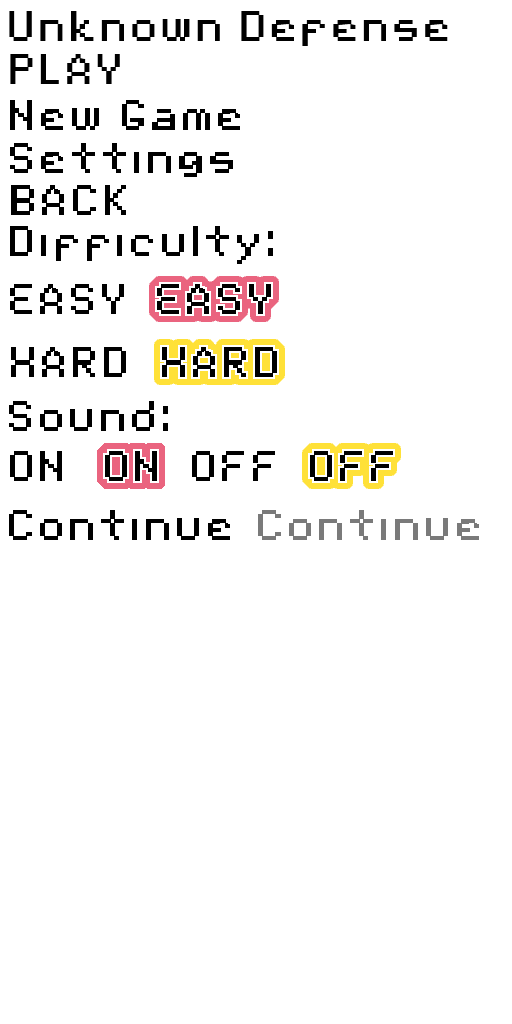
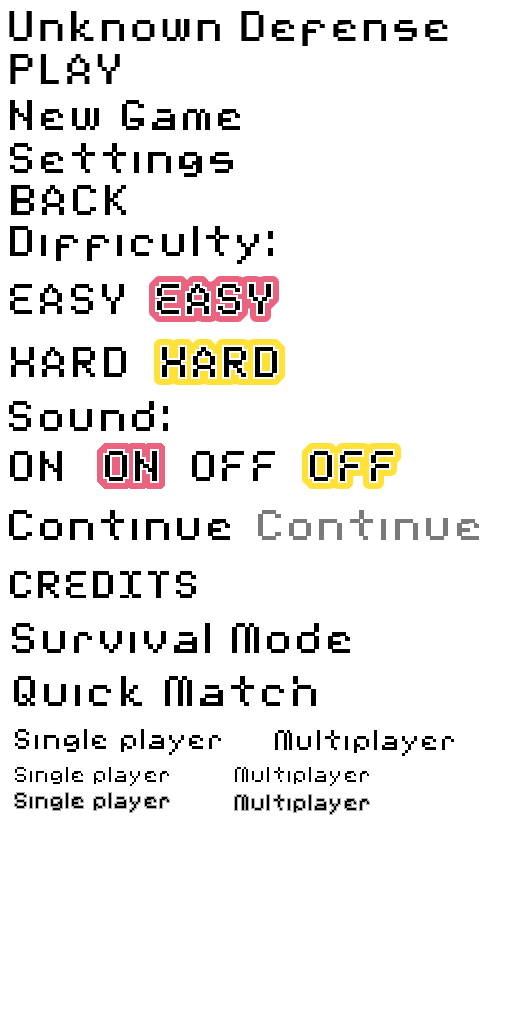
Added the game choice screen.

diff --git a/CS113Project/src/com/me/mygdxgame/GameChoiceScreen.java b/CS113Project/src/com/me/mygdxgame/GameChoiceScreen.java
@@ -1,0 +1,145 @@
+package com.me.mygdxgame;
+
+import com.badlogic.gdx.Gdx;
+import com.badlogic.gdx.Screen;
+import com.badlogic.gdx.graphics.GL10;
+import com.badlogic.gdx.graphics.OrthographicCamera;
+import com.badlogic.gdx.graphics.Texture;
+import com.badlogic.gdx.graphics.g2d.Sprite;
+import com.badlogic.gdx.graphics.g2d.SpriteBatch;
+import com.badlogic.gdx.graphics.g2d.TextureRegion;
+import com.badlogic.gdx.math.Rectangle;
+import com.badlogic.gdx.math.Vector3;
+
+public class GameChoiceScreen implements Screen{
+
+	private MyGdxGame game;
+	private SpriteBatch batch;
+	private OrthographicCamera camera;
+	private Vector3 touchPoint;
+	private Sprite titleSprite;
+	private Sprite survivalSprite;
+	private Sprite quickSprite;
+	private Rectangle survivalRectangle;
+	private Rectangle quickRectangle;
+	private Sprite sprite;
+	private Sprite backSprite;
+	private Rectangle backRectangle;
+	private Sprite singlePlayerSprite;
+	private Sprite multiPlayerSprite;
+
+	public GameChoiceScreen (MyGdxGame game)
+	{
+		this.game = game;
+		float w = 800; //Gdx.graphics.getWidth();
+		float h = 480; //Gdx.graphics.getHeight();
+		batch = new SpriteBatch();
+		camera = new OrthographicCamera(w, h);
+		touchPoint = new Vector3();
+		Texture textTexture = new Texture(Gdx.files.internal("images/textmenuscreen.png"));
+		Texture backgroundTexture = new Texture(Gdx.files.internal("images/mainmenubackground.png"));
+		
+		sprite = new Sprite(new TextureRegion(backgroundTexture, 0, 0, 800, 480));
+		titleSprite = new Sprite(new TextureRegion(textTexture, 0, 0, 451, 49));
+		titleSprite.setPosition((w - titleSprite.getWidth()) / 2, 370);
+
+		survivalSprite = new Sprite(new TextureRegion(textTexture, 10, 621, 342, 34));
+		survivalSprite.setPosition((w - survivalSprite.getWidth()) / 2, 200);
+		survivalRectangle = new Rectangle((w - survivalSprite.getWidth()) / 2 - 20 - w / 2, 180 - 20 - h / 2, survivalSprite.getWidth() + 40, survivalSprite.getHeight() + 40);
+
+		quickSprite = new Sprite(new TextureRegion(textTexture, 12, 674, 306, 34));
+		quickSprite.setPosition((w - quickSprite.getWidth()) / 2, 110);
+		quickRectangle = new Rectangle((w - quickSprite.getWidth()) / 2 - 20 - w / 2, 80 - 20 - h / 2, quickSprite.getWidth() + 40, quickSprite.getHeight() + 40);
+		
+		backSprite = new Sprite(new TextureRegion(textTexture, 5, 179, 125, 40));
+		backSprite.setPosition(w - backSprite.getWidth() - 20, backSprite.getHeight() - 10);
+		backRectangle = new Rectangle(w - backSprite.getWidth() - 20 - 20 - w / 2, backSprite.getHeight() - 10 - 20 - h / 2, backSprite.getWidth() + 40, backSprite.getHeight() + 40);
+
+		singlePlayerSprite = new Sprite(new TextureRegion(textTexture, 14, 792, 156, 21));
+		singlePlayerSprite.setPosition(survivalSprite.getX() + survivalSprite.getWidth() / 2 - singlePlayerSprite.getWidth() / 2, survivalSprite.getY() - survivalSprite.getHeight() + 5);
+		
+		multiPlayerSprite = new Sprite(new TextureRegion(textTexture, 234, 794, 136, 21));
+		multiPlayerSprite.setPosition(quickSprite.getX() +quickSprite.getWidth() / 2 - multiPlayerSprite.getWidth() / 2, quickSprite.getY() - quickSprite.getHeight() + 5);
+	}
+
+	public void update (float deltaTime) 
+	{
+		if (Gdx.input.justTouched()) {
+			camera.unproject(touchPoint.set(Gdx.input.getX(), Gdx.input.getY(), 0));
+			//System.out.println(touchPoint.x + " " + touchPoint.y);
+			if (OverlapTester.pointInRectangle(survivalRectangle, touchPoint.x, touchPoint.y)) {
+				game.gameScreen = new GameScreen(game);
+				game.mainMenuScreen.gameStarted();
+				game.mainMenuScreen.startMusic.stop();
+				game.setScreen(game.gameScreen);
+				return;
+			}
+			else if (OverlapTester.pointInRectangle(quickRectangle, touchPoint.x, touchPoint.y)) {
+
+				return;
+			}
+			
+			else if (OverlapTester.pointInRectangle(backRectangle, touchPoint.x, touchPoint.y)){
+				
+				game.setScreen(game.mainMenuScreen);
+				return;
+				
+			}
+		}
+	}
+
+
+	@Override
+	public void render(float delta) {
+		update(delta);
+		GL10 gl = Gdx.graphics.getGL10();
+		gl.glClearColor(1, 1, 1, 1);
+		gl.glClear(GL10.GL_COLOR_BUFFER_BIT);
+		batch.begin();
+		sprite.draw(batch);
+		titleSprite.draw(batch);
+		survivalSprite.draw(batch);
+		quickSprite.draw(batch);
+		backSprite.draw(batch);
+		singlePlayerSprite.draw(batch);
+		multiPlayerSprite.draw(batch);
+		batch.end();
+	}
+
+	@Override
+	public void resize(int width, int height) {
+		// TODO Auto-generated method stub
+
+	}
+
+	@Override
+	public void show() {
+		// TODO Auto-generated method stub
+
+	}
+
+	@Override
+	public void hide() {
+		// TODO Auto-generated method stub
+
+	}
+
+	@Override
+	public void pause() {
+		// TODO Auto-generated method stub
+
+	}
+
+	@Override
+	public void resume() {
+		// TODO Auto-generated method stub
+
+	}
+
+	@Override
+	public void dispose() {
+		// TODO Auto-generated method stub
+
+	}
+
+}

diff --git a/CS113Project/src/com/me/mygdxgame/MainMenuScreen.java b/CS113Project/src/com/me/mygdxgame/MainMenuScreen.java
@@ -164,10 +164,10 @@ public class MainMenuScreen implements Screen
 			//System.out.println(touchPoint.x + " " + touchPoint.y);
 			if (OverlapTester.pointInRectangle(newGameRectangle, touchPoint.x, touchPoint.y)) {
 				//System.out.println(true);
-				startMusic.stop();
-				game.gameScreen = new GameScreen(game);
-				newGameStarted = true;
-				game.setScreen(game.gameScreen);
+			//	startMusic.stop();
+			//	game.gameScreen = new GameScreen(game);
+			//	newGameStarted = true;
+				game.setScreen(game.gameChoiceScreen);
 				return;
 			}
 			else if (OverlapTester.pointInRectangle(continueRectangle, touchPoint.x, touchPoint.y)) {
@@ -225,6 +225,10 @@ public void dispose() {
 
 public void gameWon() {
 	newGameStarted = false;
+}
+
+public void gameStarted(){
+	newGameStarted = true;
 }
 
 }

diff --git a/CS113Project/src/com/me/mygdxgame/MyGdxGame.java b/CS113Project/src/com/me/mygdxgame/MyGdxGame.java
@@ -7,6 +7,7 @@ public class MyGdxGame extends Game {
 	MainMenuScreen mainMenuScreen;
 	GameScreen gameScreen;
 	SettingsScreen settingsScreen;
+	GameChoiceScreen gameChoiceScreen;
 
 	@Override
 	public void create() 
@@ -15,6 +16,7 @@ public class MyGdxGame extends Game {
 		mainMenuScreen = new MainMenuScreen(this);
 		gameScreen = new GameScreen(this);
 		settingsScreen = new SettingsScreen(this);
+		gameChoiceScreen = new GameChoiceScreen(this);
 		setScreen(mainMenuScreen);
 	}
 	
